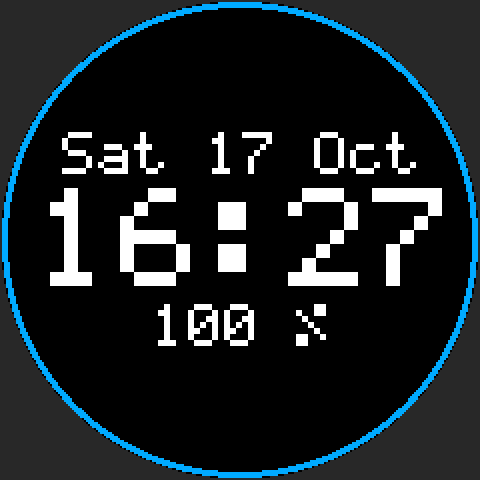
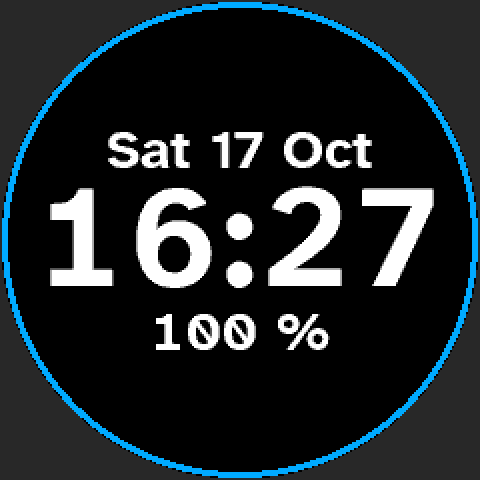
Both apps are version 0.3.0; the site shows the new face and the Wrist-rs app

Changed region(s): [[0.0938, 0.25, 0.9375, 0.75], [0.5625, 0.625, 0.6875, 0.75], [0.0938, 0.5625, 0.125, 0.5938]]

diff --git a/site/index.html b/site/index.html
@@ -82,9 +82,9 @@ footer a { color: inherit; }
     <section>
       <h2>Install</h2>
       <ol>
-        <li>On the stock version the release notes name, copy the <strong>Install</strong> glance to the watch</li>
-        <li>Restart and open the glances: Install does a dry run and shows <code>ready</code></li>
-        <li>Check its log, then arm it: next time, Install puts wrist-rs on</li>
+        <li>On the stock version the release notes name, copy the <strong>Wrist-rs</strong> app to the watch</li>
+        <li>Restart and open Wrist-rs from the launcher: its dry run shows the image's CRC</li>
+        <li>Check its log, then open it again and hold Select: it puts wrist-rs on</li>
         <li>Set the time from your computer</li>
       </ol>
     </section>
